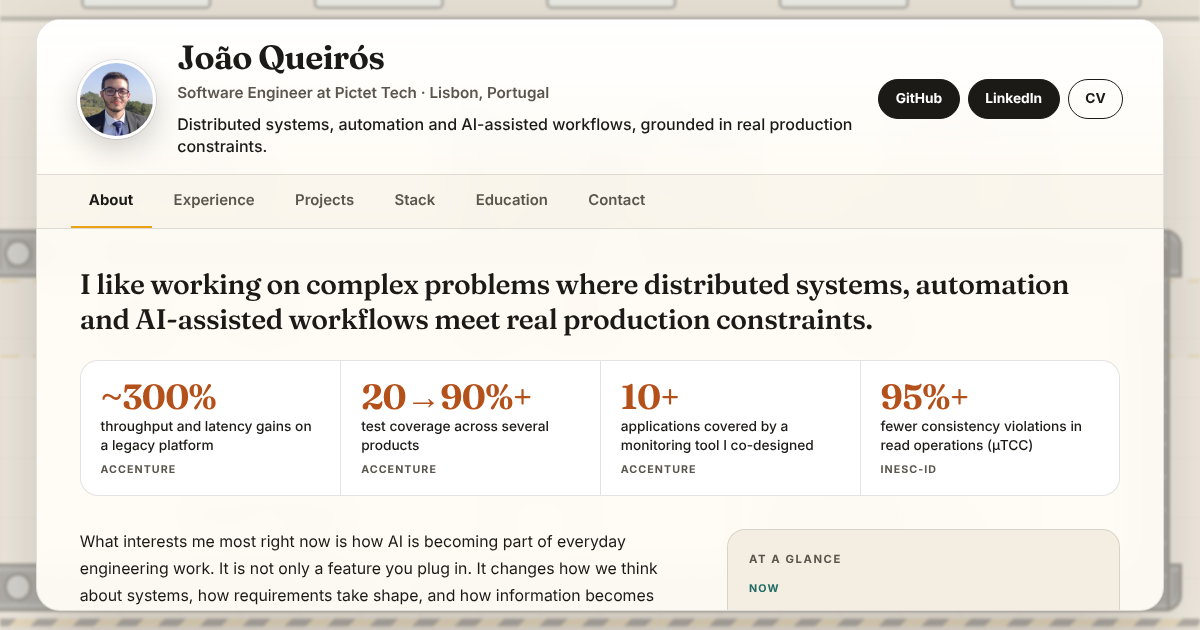
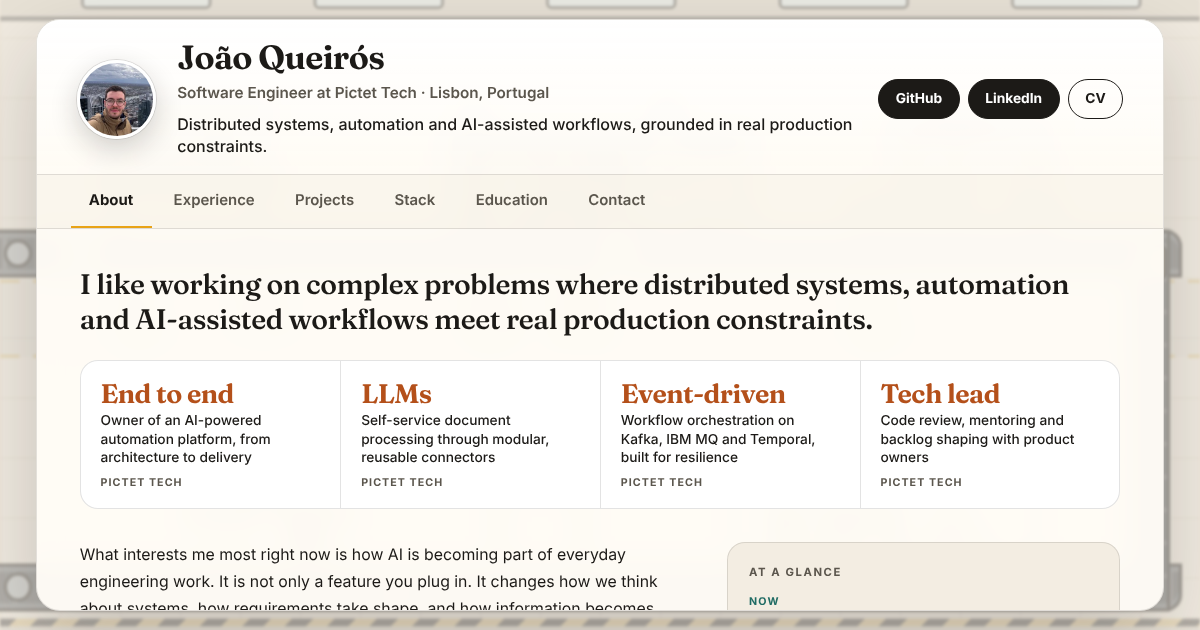
Lead the results strip with the current role and use the new portrait
Replace the Accenture figures with Pictet Tech highlights taken from the
LinkedIn description (end-to-end ownership, LLM document processing,
event-driven orchestration, tech lead), swap in the new profile photo and
regenerate the share image.

Claude-Session: https://claude.ai/code/session_011MQ3ZkFG5J2yQ8rwaWer5u

diff --git a/src/styles/global.css b/src/styles/global.css
@@ -159,7 +159,7 @@ a { color: inherit; }
 .card { display: flex; flex-direction: column; width: 94%; height: 94%; min-height: 0; overflow: hidden; }
 
 .id { display: flex; align-items: center; gap: 1.4rem; padding: 1.35rem 2.6rem 1.05rem; flex: none; background: linear-gradient(180deg, #fff 0%, rgba(255,252,246,0) 100%); }
-.portrait { width: 5.2rem; height: 5.2rem; flex: none; object-fit: cover; border-radius: 50%; border: 3px solid #fff; box-shadow: 0 0 0 1px var(--line), 0 10px 28px rgba(28,26,23,.2); }
+.portrait { width: 5.2rem; height: 5.2rem; flex: none; object-fit: cover; object-position: 50% 28%; border-radius: 50%; border: 3px solid #fff; box-shadow: 0 0 0 1px var(--line), 0 10px 28px rgba(28,26,23,.2); }
 .id-text { min-width: 0; }
 .id h1 { margin: 0; font-family: var(--font-display); font-weight: 650; font-size: 2.2rem; line-height: 1.05; letter-spacing: -.02em; font-variation-settings: 'opsz' 96; }
 .id-role { margin: .35rem 0 0; color: var(--ink-2); font-weight: 600; font-size: 1rem; }
@@ -194,7 +194,7 @@ a { color: inherit; }
 .results { list-style: none; padding: 0; margin: 0 0 2.2rem; display: grid; grid-template-columns: repeat(4, 1fr); border: 1px solid var(--line); border-radius: 18px; background: #fff; overflow: hidden; }
 .results li { padding: 1.15rem 1.3rem 1.1rem; display: grid; gap: .2rem; align-content: start; border-left: 1px solid var(--line); }
 .results li:first-child { border-left: none; }
-.results b { font-family: var(--font-display); font-weight: 650; font-size: 2.3rem; line-height: 1; letter-spacing: -.02em; color: var(--accent); font-variation-settings: 'opsz' 96; }
+.results b { min-height: 1.9rem; display: flex; align-items: flex-end; font-family: var(--font-display); font-weight: 650; font-size: 1.75rem; line-height: 1.1; letter-spacing: -.02em; color: var(--accent); font-variation-settings: 'opsz' 96; }
 .results span { font-size: .9rem; line-height: 1.35; color: var(--ink); font-weight: 500; }
 .results small { margin-top: .25rem; font-size: .7rem; font-weight: 700; letter-spacing: .1em; text-transform: uppercase; color: var(--ink-2); }
 
@@ -269,7 +269,7 @@ a { color: inherit; }
   .id { flex-wrap: wrap; padding: 1.1rem 1.1rem .9rem; gap: .8rem 1rem; }
   .id { align-items: flex-start; }
   .id-text { flex: 1 1 55%; }
-  .results b { font-size: 1.55rem; }
+  .results b { font-size: 1.3rem; min-height: 0; }
   .results li { padding: .9rem .9rem .85rem; }
   .results span { font-size: .84rem; }
   .portrait { width: 4.2rem; height: 4.2rem; }

diff --git a/src/data/content.ts b/src/data/content.ts
@@ -161,10 +161,10 @@ export const awards = [
 ];
 
 export const results = [
-  { value: '~300%', label: 'throughput and latency gains on a legacy platform', where: 'Accenture' },
-  { value: '20→90%+', label: 'test coverage across several products', where: 'Accenture' },
-  { value: '10+', label: 'applications covered by a monitoring tool I co-designed', where: 'Accenture' },
-  { value: '95%+', label: 'fewer consistency violations in read operations (µTCC)', where: 'INESC-ID' },
+  { value: 'End to end', label: 'Owner of an AI-powered automation platform, from architecture to delivery', where: 'Pictet Tech' },
+  { value: 'LLMs', label: 'Self-service document processing through modular, reusable connectors', where: 'Pictet Tech' },
+  { value: 'Event-driven', label: 'Workflow orchestration on Kafka, IBM MQ and Temporal, built for resilience', where: 'Pictet Tech' },
+  { value: 'Tech lead', label: 'Code review, mentoring and backlog shaping with product owners', where: 'Pictet Tech' },
 ] as const;
 
 export const glance = [
@@ -172,7 +172,7 @@ export const glance = [
   ['Focus', 'Distributed systems, orchestration and AI-assisted automation'],
   ['Based in', 'Lisbon, Portugal (hybrid)'],
   ['Education', 'MSc in Computer Science and Engineering, Instituto Superior Técnico'],
-  ['Recognition', 'Best Student Poster, INForum 2023'],
+  ['Recognition', 'Best Student Poster, INForum 2023 (MSc research)'],
 ] as const;
 
 export const research = {
